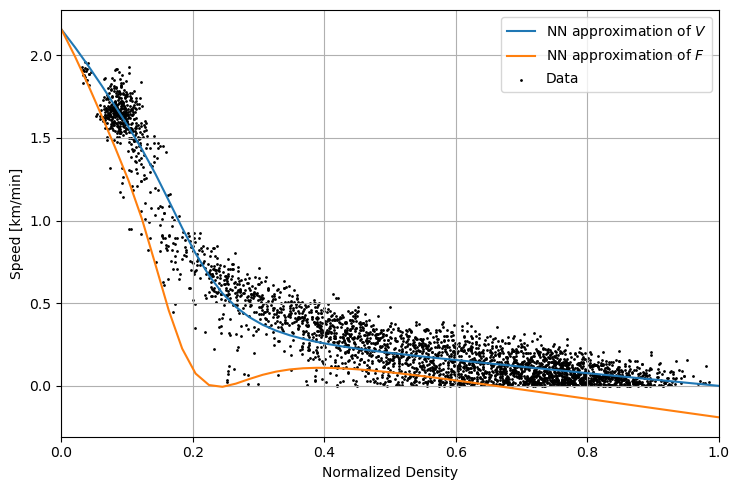
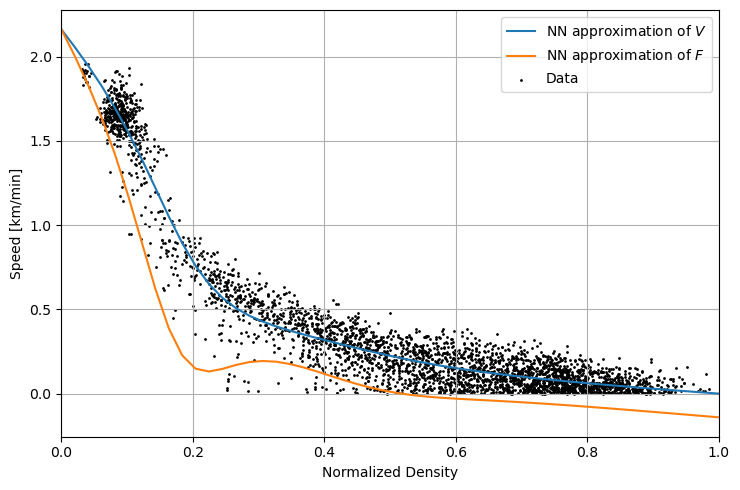
gpu training

Changed region(s): [[0.0311, 0.0918, 0.9635, 0.8571], [0.0311, 0.7653, 0.0932, 0.8265], [0.0311, 0.4286, 0.0932, 0.4898]]

diff --git a/neural_network_pytorch.py b/neural_network_pytorch.py
@@ -88,6 +88,7 @@ class NeuralNetwork(nn.Module):
         self.sigmas = sigmas # Weights for the loss functions / soft-hard constraints
 
         self.device = torch.device('cuda' if torch.cuda.is_available() else 'cpu')
+        self.device = 'cpu'
         print(f"Device: {self.device}")
 
         # data points
@@ -97,22 +98,22 @@ class NeuralNetwork(nn.Module):
         self.v = self.preprocess_datapoints(v)
 
         # physics points
-        self.x_f = torch.tensor(X_f[:, 0:1], dtype=torch.float32, requires_grad=True) # space data points for the PDE [500, 1]
-        self.t_f = torch.tensor(X_f[:, 1:2], dtype=torch.float32, requires_grad=True) # time data points for the PDE [500, 1]
-        self.t_g = torch.tensor(t_g, dtype=torch.float32, requires_grad=True) # time data points for the PDE 16*[50, 1]
-        self.u_v = torch.tensor(u_v, dtype=torch.float32, requires_grad=True) # density data points for the PDE [50, 1]
+        self.x_f = torch.tensor(X_f[:, 0:1], dtype=torch.float32, requires_grad=True).to(self.device) # space data points for the PDE [500, 1]
+        self.t_f = torch.tensor(X_f[:, 1:2], dtype=torch.float32, requires_grad=True).to(self.device) # time data points for the PDE [500, 1]
+        self.t_g = torch.tensor(t_g, dtype=torch.float32, requires_grad=True).to(self.device) # time data points for the PDE 16*[50, 1]
+        self.u_v = torch.tensor(u_v, dtype=torch.float32, requires_grad=True).to(self.device) # density data points for the PDE [50, 1]
 
         # weights of the losses
         self.lambdas = {
-            "MSEf": torch.tensor(1, dtype=torch.float32, requires_grad=True),
-            "MSEg": torch.tensor(1, dtype=torch.float32, requires_grad=True),
-            "MSEv": torch.tensor(1, dtype=torch.float32, requires_grad=True),
-            "MSEgamma": torch.tensor(1, dtype=torch.float32, requires_grad=True),
-            "MSEu1": torch.tensor(1, dtype=torch.float32, requires_grad=True),
+            "MSEf": torch.tensor(1, dtype=torch.float32, requires_grad=True).to(self.device),
+            "MSEg": torch.tensor(1, dtype=torch.float32, requires_grad=True).to(self.device),
+            "MSEv": torch.tensor(1, dtype=torch.float32, requires_grad=True).to(self.device),
+            "MSEgamma": torch.tensor(1, dtype=torch.float32, requires_grad=True).to(self.device),
+            "MSEu1": torch.tensor(1, dtype=torch.float32, requires_grad=True).to(self.device),
             "MSEu2": torch.tensor(1, dtype=torch.float32, requires_grad=True),
-            "MSEtrajectories": torch.tensor(1, dtype=torch.float32, requires_grad=True),
-            "MSEv1": torch.tensor(1, dtype=torch.float32, requires_grad=True),
-            "MSEv2":torch.tensor(1, dtype=torch.float32, requires_grad=True)
+            "MSEtrajectories": torch.tensor(1, dtype=torch.float32, requires_grad=True).to(self.device),
+            "MSEv1": torch.tensor(1, dtype=torch.float32, requires_grad=True).to(self.device),
+            "MSEv2":torch.tensor(1, dtype=torch.float32, requires_grad=True).to(self.device)
         }
 
 
@@ -129,8 +130,8 @@ class NeuralNetwork(nn.Module):
         # print_data_ranges(self.u_v, "u_v")
 
         # learnable parameters
-        self.gamma_var = torch.nn.Parameter(torch.tensor(1e-2, dtype=torch.float32), requires_grad=True)  # Correct use of dtype # Viscosity parameter
-        self.noise_rho_bar = [torch.nn.Parameter(torch.randn(1, 1) * 0.001, requires_grad=True) for _ in range(self.N)] # Noise for the density
+        self.gamma_var = torch.nn.Parameter(torch.tensor(1e-2, dtype=torch.float32), requires_grad=True).to(self.device)  # Correct use of dtype # Viscosity parameter
+        self.noise_rho_bar = [torch.nn.Parameter(torch.randn(1, 1).to(self.device) * 0.001, requires_grad=True) for _ in range(self.N)] # Noise for the density
 
 
         # build density network
@@ -301,13 +302,27 @@ class NeuralNetwork(nn.Module):
         plt.show()
 
 
+    def check_network_device(self):
+        # Example for checking the device of the density network
+        density_network_device = next(self.density_network.parameters()).device
+        print(f'Density Network Device: {density_network_device}')
+
+        # Example for checking the device of the first trajectories network
+        # Assuming self.trajectories_networks is not empty
+        if self.trajectories_networks:
+            trajectories_network_device = next(self.trajectories_networks[0].parameters()).device
+            print(f'First Trajectories Network Device: {trajectories_network_device}')
+
+        # Example for checking the device of the velocity network
+        velocity_network_device = next(self.velocity_network.parameters()).device
+        print(f'Velocity Network Device: {velocity_network_device}')
 
     def calculate_data_losses(self):
 
         # Predictions
-        u_pred = [self.net_u(self.t[i], self.x[i]) - self.noise_rho_bar[i] for i in range(len(self.t))] # list of tensors, since each tensor has a different shape
+        u_pred = [self.net_u(self.t[i], self.x[i]) - self.noise_rho_bar[i]*0 for i in range(len(self.t))] # list of tensors, since each tensor has a different shape
         x_pred = [self.net_x_pv(self.t[i], i) for i in range(len(self.t))]  
-        u_pred_pv_position = [self.net_u(self.t[i], x_pred[i]) - self.noise_rho_bar[i] for i in range(len(self.t))]
+        u_pred_pv_position = [self.net_u(self.t[i], x_pred[i]) - self.noise_rho_bar[i]*0 for i in range(len(self.t))]
         v_pred = [self.net_v(self.u[i]) for i in range(len(self.t))]
 
         # L_2
@@ -332,7 +347,7 @@ class NeuralNetwork(nn.Module):
 
         return {
             "MSEu1": MSEu1,
-            "MSEu2": MSEu2,
+            # "MSEu2": MSEu2,
             "MSEtrajectories": MSEtrajectories,
             "MSEv1": MSEv1,
             "MSEv2": MSEv2
@@ -384,37 +399,58 @@ class NeuralNetwork(nn.Module):
             {'params': self.density_network.parameters()},
             {'params': self.velocity_network.parameters()},
             {'params': [p for traj_net in self.trajectories_networks for p in traj_net.parameters()]}, # added this way such that it is optimized as well
-            {'params': self.noise_rho_bar},  # Assuming noise_rho_bar is a list of parameters/tensors
-            {'params': [self.gamma_var]},
+            # {'params': self.noise_rho_bar},  # Assuming noise_rho_bar is a list of parameters/tensors
+            # {'params': [self.gamma_var]},
             # {'params': self.lambdas.values()}
         ], lr=0.005)
+
+        
         # optimizer = optim.Adam(list(self.parameters()) + [self.gamma_var] + [*self.noise_rho_bar], lr=0.005)
         # optimizer = optim.LBFGS(self.parameters(), lr=0.005)
        
         # Train the model
-        self.N_epochs = 6000
+        self.N_epochs = 5000
         # self.plot_density_loss_on_trajectory()
         with tqdm(total=self.N_epochs, desc="Training Progress") as pbar:
             for epoch in range(self.N_epochs):
-                
-                optimizer.zero_grad()
-                losses_data = self.calculate_data_losses()
-                losses_physics = self.calculate_physics_losses()
-                losses = {**losses_data, **losses_physics}
-                # weighted_loss = {key: losses[key] * torch.sigmoid(self.lambdas[key]) for key in losses}
 
-                # breakpoint()
-                # loss = sum(losses_data.values()) + sum(losses_physics.values())
-                loss = sum(losses.values())
-                # if epoch < 4000:
-                #     loss = sum(losses_data.values())
-                # else:
-                #     loss = sum(losses.values())
-                    # loss = sum(weighted_loss.values())
-                # loss = sum([self.sigmas[i]*losses[key] for i, key in enumerate(losses.keys())])
-  
-                loss.backward()
-                optimizer.step()
+                if epoch > self.N_epochs:
+                    optimizer = optim.LBFGS(self.parameters(), lr=0.1, max_iter=20, history_size=100)
+
+                    def closure():
+                        optimizer.zero_grad()
+                        losses_data = self.calculate_data_losses()
+                        losses_physics = self.calculate_physics_losses()
+                        losses = {**losses_data, **losses_physics}
+
+                        loss = sum(losses.values())
+                        loss.backward()
+                        return loss
+                    
+                    optimizer.step(closure)
+                    
+                    loss = closure()
+                
+                else:
+                
+                    optimizer.zero_grad()
+                    losses_data = self.calculate_data_losses()
+                    losses_physics = self.calculate_physics_losses()
+                    losses = {**losses_data, **losses_physics}
+                    # weighted_loss = {key: losses[key] * torch.sigmoid(self.lambdas[key]) for key in losses}
+
+                    # loss = sum(losses_data.values()) + sum(losses_physics.values())
+                    loss = sum(losses.values())
+                    # if epoch < 4000:
+                    #     loss = sum(losses_data.values())
+                    # else:
+                    #     loss = sum(losses.values())
+                        # loss = sum(weighted_loss.values())
+                    # loss = sum([self.sigmas[i]*losses[key] for i, key in enumerate(losses.keys())])
+
+                    loss.backward()
+                    optimizer.step()
+
 
                 # print(self.gamma_var, self.noise_rho_bar[0])
 
@@ -435,7 +471,7 @@ class NeuralNetwork(nn.Module):
                 for key, value in self.lambdas.items():
                     lambdas_history[key].append(torch.sigmoid(value).item())
 
-               
+
             self.plot_density_loss_on_trajectory()
             return loss_history, gamma_var_history, noise_rho_bar_history, lambdas_history
         
@@ -455,7 +491,6 @@ class NeuralNetwork(nn.Module):
         '''
         Standardized velocity
         '''
-        # breakpoint()
         # v_tanh = torch.square(self.velocity_network(rho))
         v_tanh = self.velocity_network(rho)
         return (v_tanh+1)/2 * self.max_speed * (1-rho) # scaled
@@ -550,10 +585,8 @@ class NeuralNetwork(nn.Module):
             x_dt = torch.autograd.grad(x_trajectories, t, grad_outputs=torch.ones_like(x_trajectories), create_graph=True)[0] # have to use the whole t and then select the i-th element
             # print(x_dt[i])
             rho = self.net_u(t[i], x_trajectories)
-            # breakpoint()
             g.append(x_dt[i] - self.net_v(rho))
 
-        # breakpoint()
         return g
     
     def predict_speed(self, u):

diff --git a/reconstruction_neural_network_pytorch.py b/reconstruction_neural_network_pytorch.py
@@ -102,6 +102,8 @@ class ReconstructionNeuralNetwork():
                                             max_speed=v_max, beta=0.05,
                                             N_epochs=300, N_lambda=10, 
                                             sigmas=sigmas, opt=opt) # Creation of the neural network
+        
+        self.neural_network.check_network_device()
             
     def createTrainingDataset(self, t, x, rho, v, v_max, L, Tmax, N_f, N_g, N_v):       
         '''
